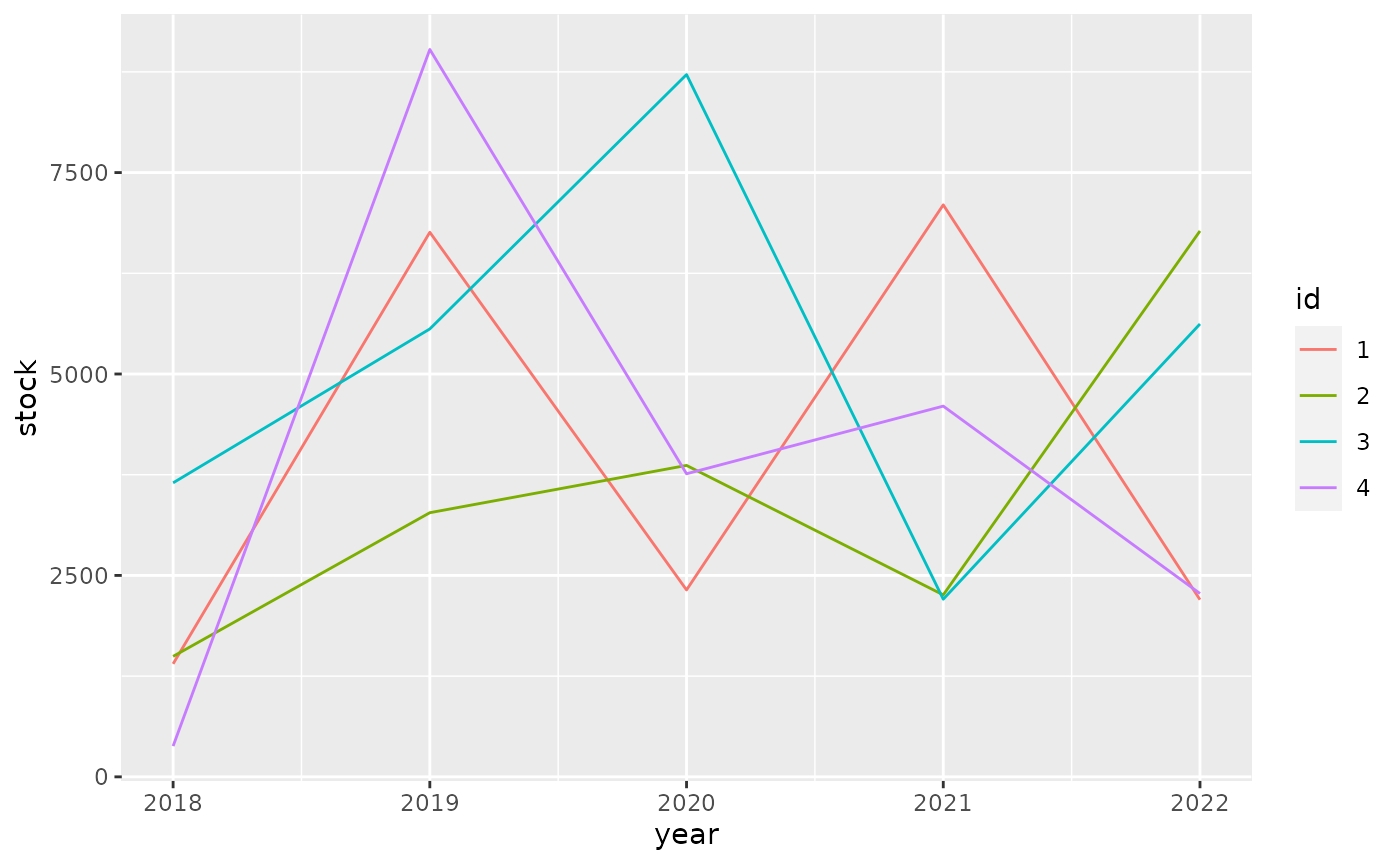
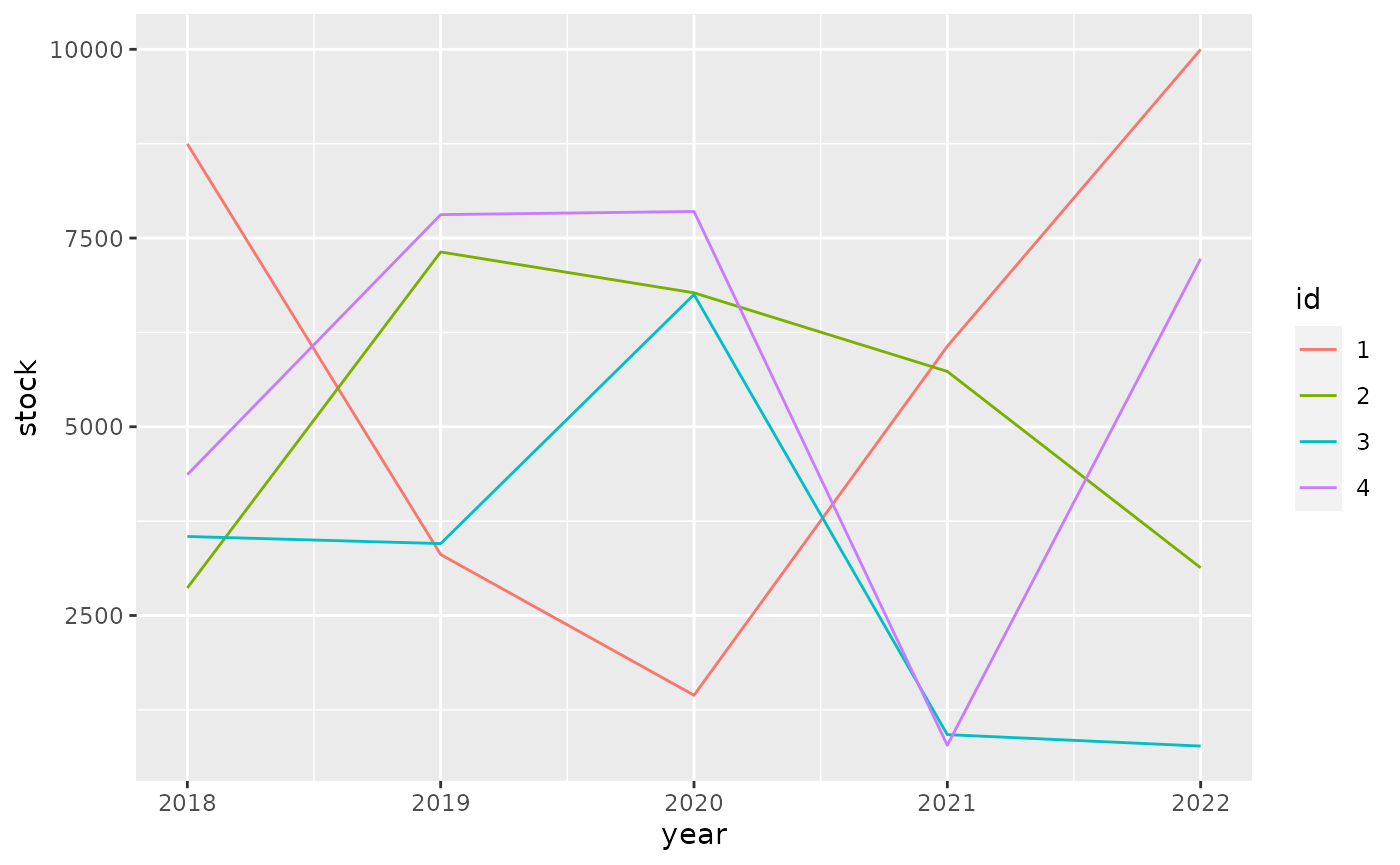
Built site for tibble: 3.1.6@d666dba

diff --git a/articles/formats.html b/articles/formats.html
@@ -226,10 +226,10 @@
 <span class="co">#&gt; <span style="color: #949494;"># A tibble: 4 × 6</span></span>
 <span class="co">#&gt;   id       `2018`    `2019`    `2020`    `2021`    `2022`</span>
 <span class="co">#&gt;   <span style="color: #949494; font-style: italic;">&lt;fct&gt;</span> <span style="color: #949494; font-style: italic;">&lt;dbl:fmt&gt;</span> <span style="color: #949494; font-style: italic;">&lt;dbl:fmt&gt;</span> <span style="color: #949494; font-style: italic;">&lt;dbl:fmt&gt;</span> <span style="color: #949494; font-style: italic;">&lt;dbl:fmt&gt;</span> <span style="color: #949494; font-style: italic;">&lt;dbl:fmt&gt;</span></span>
-<span class="co">#&gt; <span style="color: #BCBCBC;">1</span> 1     $1,402.58 $6,759.32 $2,319.92 $7,099.59 $2,198.91</span>
-<span class="co">#&gt; <span style="color: #BCBCBC;">2</span> 2     $1,495.10 $3,278.47 $3,865.38 $2,258.51 $6,775.27</span>
-<span class="co">#&gt; <span style="color: #BCBCBC;">3</span> 3     $3,649.00 $5,559.40 $8,716.53 $2,204.56 $5,621.00</span>
-<span class="co">#&gt; <span style="color: #BCBCBC;">4</span> 4       $381.87 $9,028.34 $3,761.70 $4,601.34 $2,275.39</span></code></pre></div>
+<span class="co">#&gt; <span style="color: #BCBCBC;">1</span> 1     $8,747.70 $3,307.91 $1,444.09 $6,066.05 $9,998.37</span>
+<span class="co">#&gt; <span style="color: #BCBCBC;">2</span> 2     $2,864.87 $7,315.38 $6,774.66 $5,733.02 $3,131.44</span>
+<span class="co">#&gt; <span style="color: #BCBCBC;">3</span> 3     $3,546.59 $3,452.46 $6,751.71   $921.84   $770.04</span>
+<span class="co">#&gt; <span style="color: #BCBCBC;">4</span> 4     $4,366.25 $7,810.19 $7,851.80   $780.56 $7,225.44</span></code></pre></div>
 <p>For ggplot2 we need to do <a href="https://github.com/tidyverse/ggplot2/pull/4065" class="external-link">some work</a> to show apply the formatting to the scales.</p>
 <div class="sourceCode" id="cb6"><pre class="downlit sourceCode r">
 <code class="sourceCode R"><span class="kw"><a href="https://rdrr.io/r/base/library.html" class="external-link">library</a></span><span class="op">(</span><span class="va"><a href="https://ggplot2.tidyverse.org" class="external-link">ggplot2</a></span><span class="op">)</span>
@@ -240,10 +240,10 @@
   <span class="fu"><a href="https://ggplot2.tidyverse.org/reference/geom_path.html" class="external-link">geom_line</a></span><span class="op">(</span><span class="op">)</span></code></pre></div>
 <p><img src="formats_files/figure-html/unnamed-chunk-7-1.png" width="700"></p>
 <p>It pays off to specify formatting very early in the process. The diagram below shows the principal stages of data analysis and exploration from “R for data science”.</p>
-<div id="htmlwidget-cee10d4e40e3a8db4478" style="width:700px;height:432.632880098888px;" class="DiagrammeR html-widget"></div>
-<script type="application/json" data-for="htmlwidget-cee10d4e40e3a8db4478">{"x":{"diagram":"graph TD\n  Import --> Tidy\n  Tidy --> Transform\n  Transform --> Visualize\n  Visualize --> Communicate\n  Visualize --> Model\n  Model -.-> Transform"},"evals":[],"jsHooks":[]}</script><p>The subsequent diagram adds data formats, communication options, and explicit data formatting. The original r4ds transitions are highlighted in bold. There are two principal options where to apply formatting for results: right before communicating them, or right after importing.</p>
-<div id="htmlwidget-f6c83e392304e6fdd5ff" style="width:700px;height:432.632880098888px;" class="DiagrammeR html-widget"></div>
-<script type="application/json" data-for="htmlwidget-f6c83e392304e6fdd5ff">{"x":{"diagram":"graph TD\n  .csv --> Import\n  API --> Import\n  DBI --> Import\n  dbplyr --> Import\n  Import -.-> Format[Format for analysis]\n  Format -.-> Tidy\n\n  subgraph r4ds\n  Import ==> Tidy\n  Tidy ==> Transform\n  Transform ==> Visualize\n  Visualize ==> Model\n  Model -.-> Transform\n  Visualize ==> Communicate\n  end\n\n  Visualize -.-> FormatComm[Format for communication]\n  FormatComm -.-> Communicate\n\n  FormatComm -- Apply formatting early --> Format\n\n  dbplyr -.-> Tidy\n  dbplyr -.-> Transform\n  dbplyr -.-> Visualize\n\n  Communicate --> gt\n  Communicate --> ggplot2\n  Communicate --> DT\n  Communicate --> plotly"},"evals":[],"jsHooks":[]}</script><p>Applying formatting early in the process gives the added benefit of showing the data in a useful format during the “Tidy”, “Transform”, and “Visualize” stages. For this to be useful, we need to ensure that the formatting options applied early:</p>
+<div id="htmlwidget-b0cc8940e859a98583fe" style="width:700px;height:432.632880098888px;" class="DiagrammeR html-widget"></div>
+<script type="application/json" data-for="htmlwidget-b0cc8940e859a98583fe">{"x":{"diagram":"graph TD\n  Import --> Tidy\n  Tidy --> Transform\n  Transform --> Visualize\n  Visualize --> Communicate\n  Visualize --> Model\n  Model -.-> Transform"},"evals":[],"jsHooks":[]}</script><p>The subsequent diagram adds data formats, communication options, and explicit data formatting. The original r4ds transitions are highlighted in bold. There are two principal options where to apply formatting for results: right before communicating them, or right after importing.</p>
+<div id="htmlwidget-916f4a3405b25b08be0e" style="width:700px;height:432.632880098888px;" class="DiagrammeR html-widget"></div>
+<script type="application/json" data-for="htmlwidget-916f4a3405b25b08be0e">{"x":{"diagram":"graph TD\n  .csv --> Import\n  API --> Import\n  DBI --> Import\n  dbplyr --> Import\n  Import -.-> Format[Format for analysis]\n  Format -.-> Tidy\n\n  subgraph r4ds\n  Import ==> Tidy\n  Tidy ==> Transform\n  Transform ==> Visualize\n  Visualize ==> Model\n  Model -.-> Transform\n  Visualize ==> Communicate\n  end\n\n  Visualize -.-> FormatComm[Format for communication]\n  FormatComm -.-> Communicate\n\n  FormatComm -- Apply formatting early --> Format\n\n  dbplyr -.-> Tidy\n  dbplyr -.-> Transform\n  dbplyr -.-> Visualize\n\n  Communicate --> gt\n  Communicate --> ggplot2\n  Communicate --> DT\n  Communicate --> plotly"},"evals":[],"jsHooks":[]}</script><p>Applying formatting early in the process gives the added benefit of showing the data in a useful format during the “Tidy”, “Transform”, and “Visualize” stages. For this to be useful, we need to ensure that the formatting options applied early:</p>
 <ul>
 <li>give a good user experience for analysis
 <ul>

diff --git a/articles/types.html b/articles/types.html
@@ -357,7 +357,7 @@
 #&gt; $ factor         [3m [38;5;246m&lt;fct&gt; [39m [23m A
 #&gt; $ ordered        [3m [38;5;246m&lt;ord&gt; [39m [23m a
 #&gt; $ Date           [3m [38;5;246m&lt;date&gt; [39m [23m 2021-10-25
-#&gt; $ POSIXt         [3m [38;5;246m&lt;dttm&gt; [39m [23m 2021-10-25 03:51:46
+#&gt; $ POSIXt         [3m [38;5;246m&lt;dttm&gt; [39m [23m 2021-10-25 03:57:40
 #&gt; $ difftime       [3m [38;5;246m&lt;drtn&gt; [39m [23m 1 secs
 #&gt; $ hms            [3m [38;5;246m&lt;time&gt; [39m [23m 00:00:01
 #&gt; $ integer64      [3m [38;5;246m&lt;int64&gt; [39m [23m 10000000000
@@ -393,7 +393,7 @@
 <span class="co">#&gt;             "sym"</span>
 <span class="co">#&gt;         }, typeof(x))</span>
 <span class="co">#&gt; }</span>
-<span class="co">#&gt; &lt;bytecode: 0x5622bc8b1de0&gt;</span>
+<span class="co">#&gt; &lt;bytecode: 0x5637be32bdf0&gt;</span>
 <span class="co">#&gt; &lt;environment: namespace:pillar&gt;</span></code></pre></div>
 </div>
   </div>

diff --git a/index.html b/index.html
@@ -275,7 +275,7 @@
 <h2 data-toc-skip>Dev status</h2>
 <ul class="list-unstyled">
 <li><a href="https://github.com/tidyverse/tibble/actions" class="external-link"><img src="https://github.com/tidyverse/tibble/workflows/R-CMD-check/badge.svg" alt="R-CMD-check"></a></li>
-<li><a href="https://codecov.io/gh/tidyverse/tibble" class="external-link"><img src="https://codecov.io/gh/tidyverse/tibble/branch/master/graph/badge.svg" alt="codecov"></a></li>
+<li><a href="https://app.codecov.io/gh/tidyverse/tibble" class="external-link"><img src="https://app.codecov.io/gh/tidyverse/tibble/branch/master/graph/badge.svg" alt="codecov"></a></li>
 <li><a href="https://cran.r-project.org/package=tibble" class="external-link"><img src="https://www.r-pkg.org/badges/version/tibble" alt="CRAN_Status_Badge"></a></li>
 <li><a href="https://lifecycle.r-lib.org/articles/stages.html" class="external-link"><img src="https://img.shields.io/badge/lifecycle-stable-brightgreen.svg" alt="Life cycle"></a></li>
 </ul>
